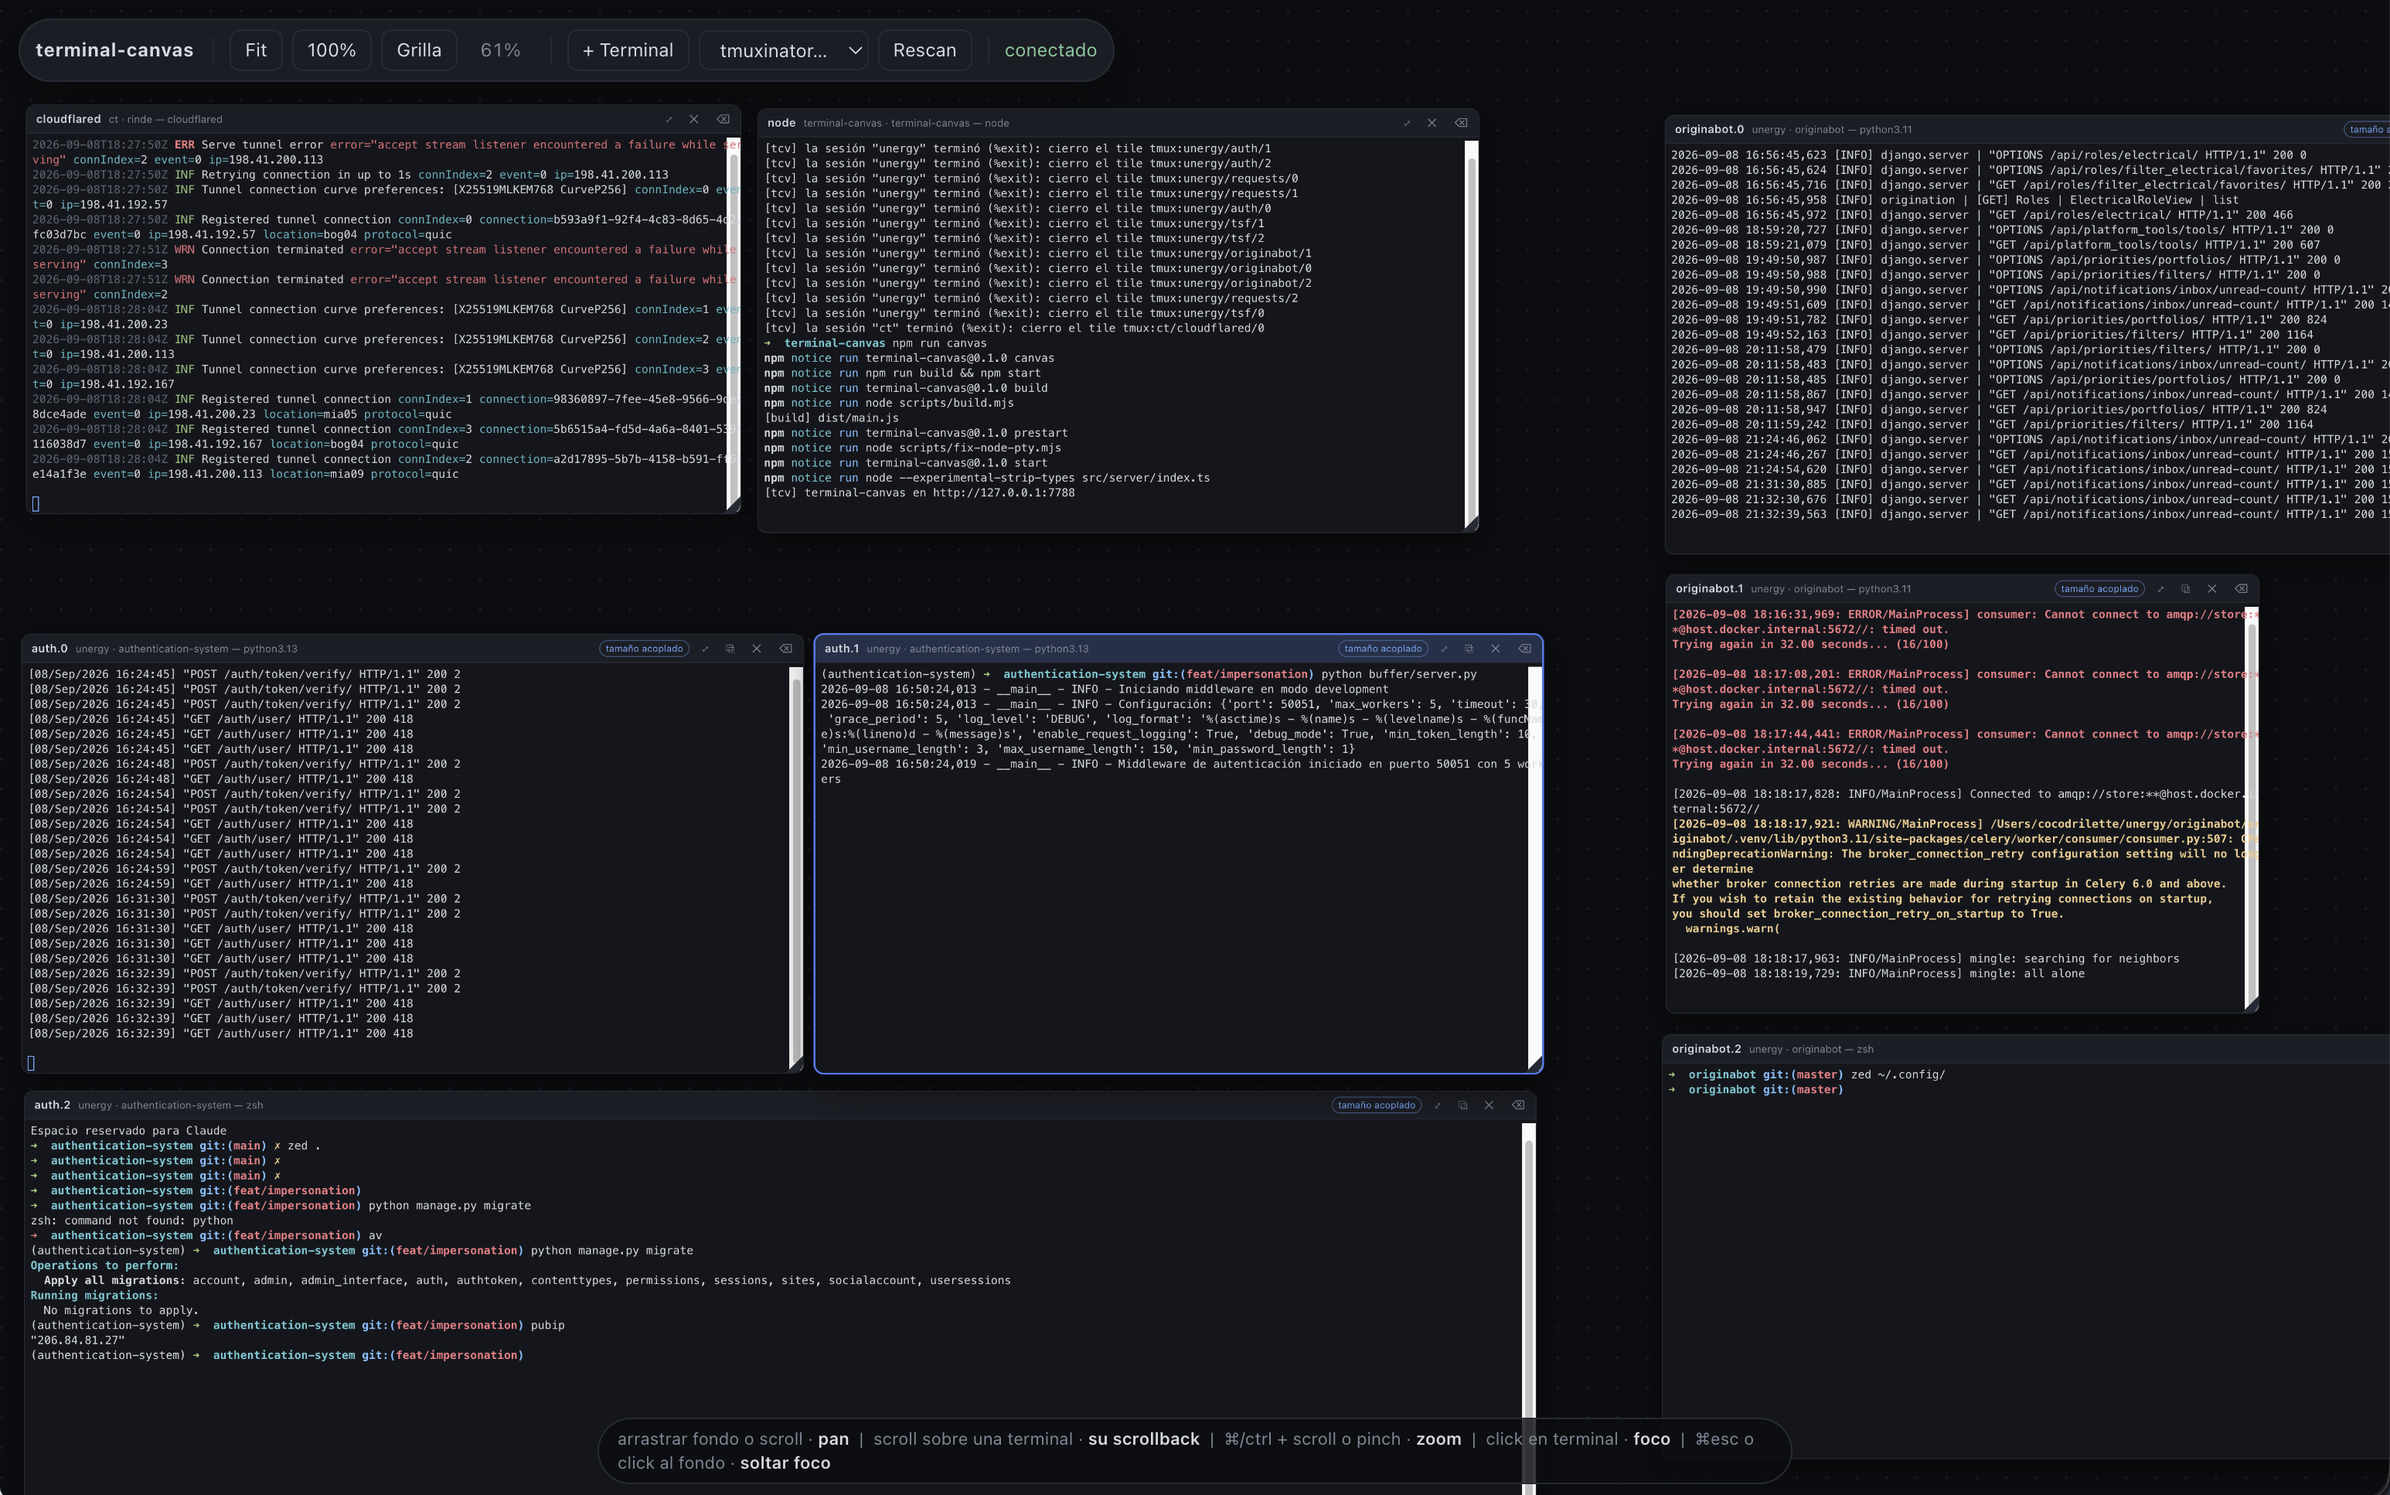
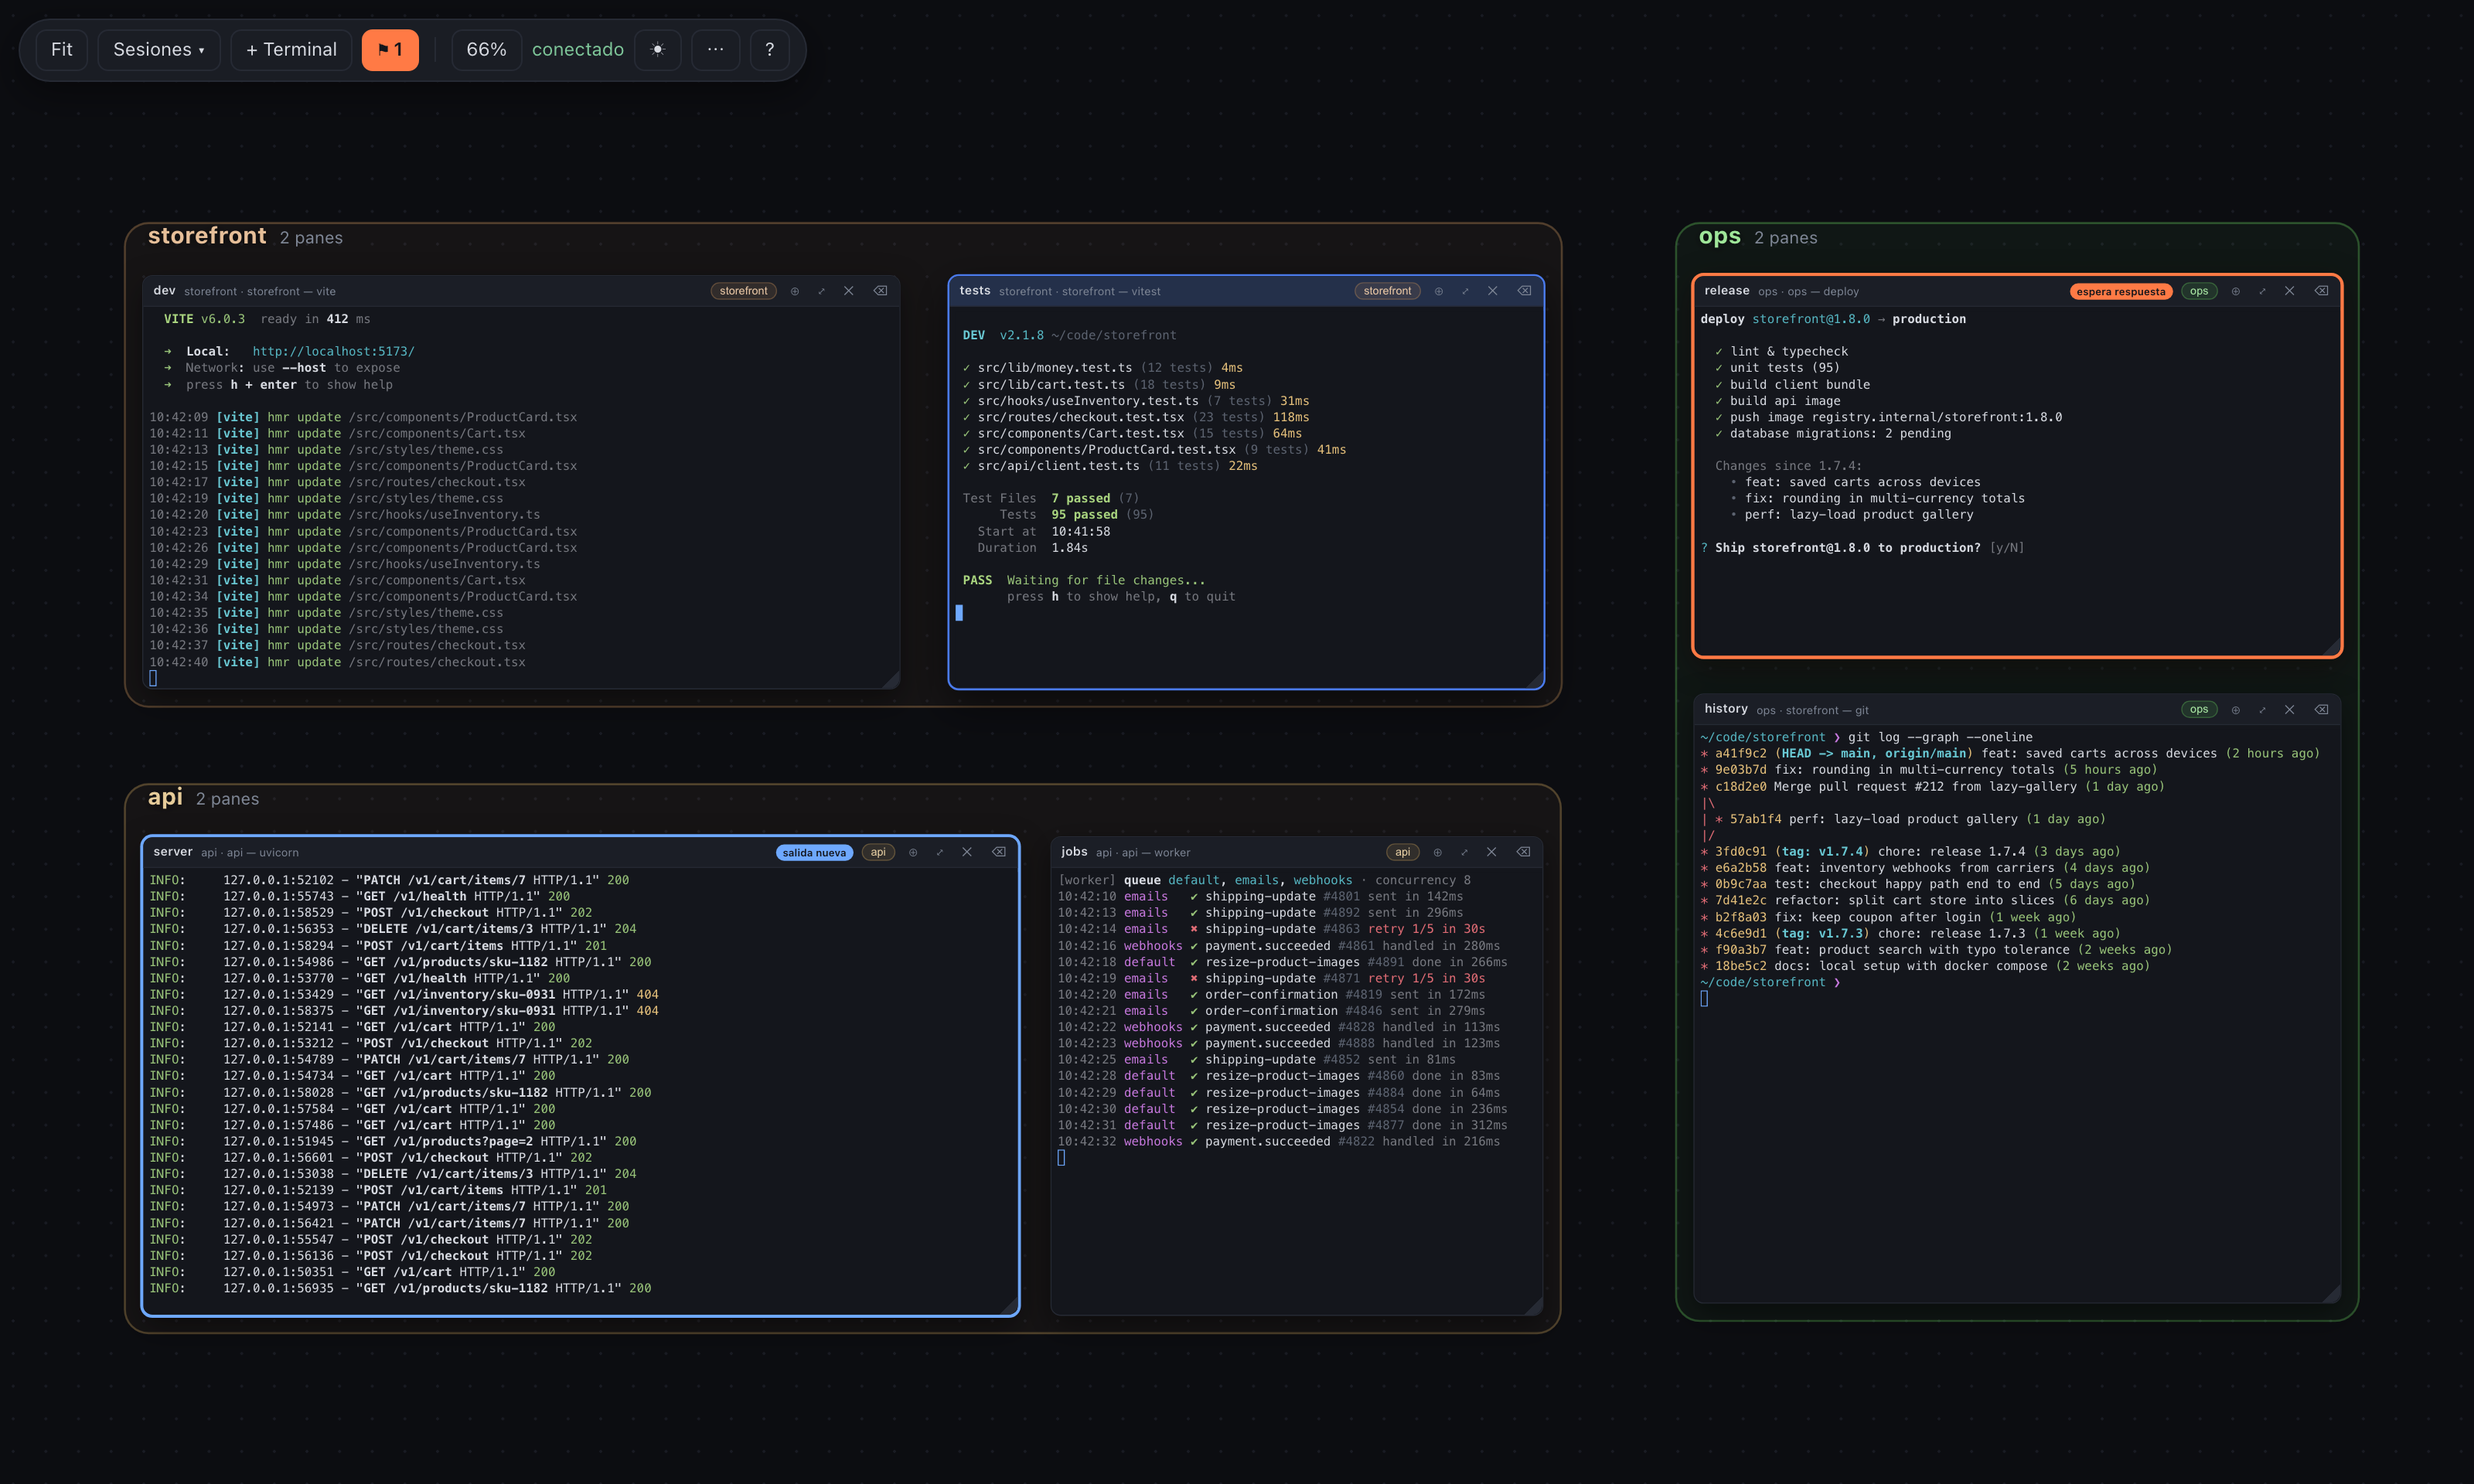
docs: staged README screenshot, regenerated with npm run screenshot

diff --git a/README.md b/README.md
@@ -168,6 +168,11 @@ window still opens, just without tiles.
 Icons are regenerated with `npm run icons`, which draws an SVG with
 Playwright's Chromium and writes `assets/icons/*.png` (these are committed).
 
+The README screenshot is regenerated with `npm run build && npm run screenshot`.
+It stages a fictional demo against its own tmux server and a throwaway HOME, so
+none of your sessions, layout or token are touched, and writes
+`assets/image.png`.
+
 ## How it works
 
 - **One tile = one pane, via control mode.** The server opens one
